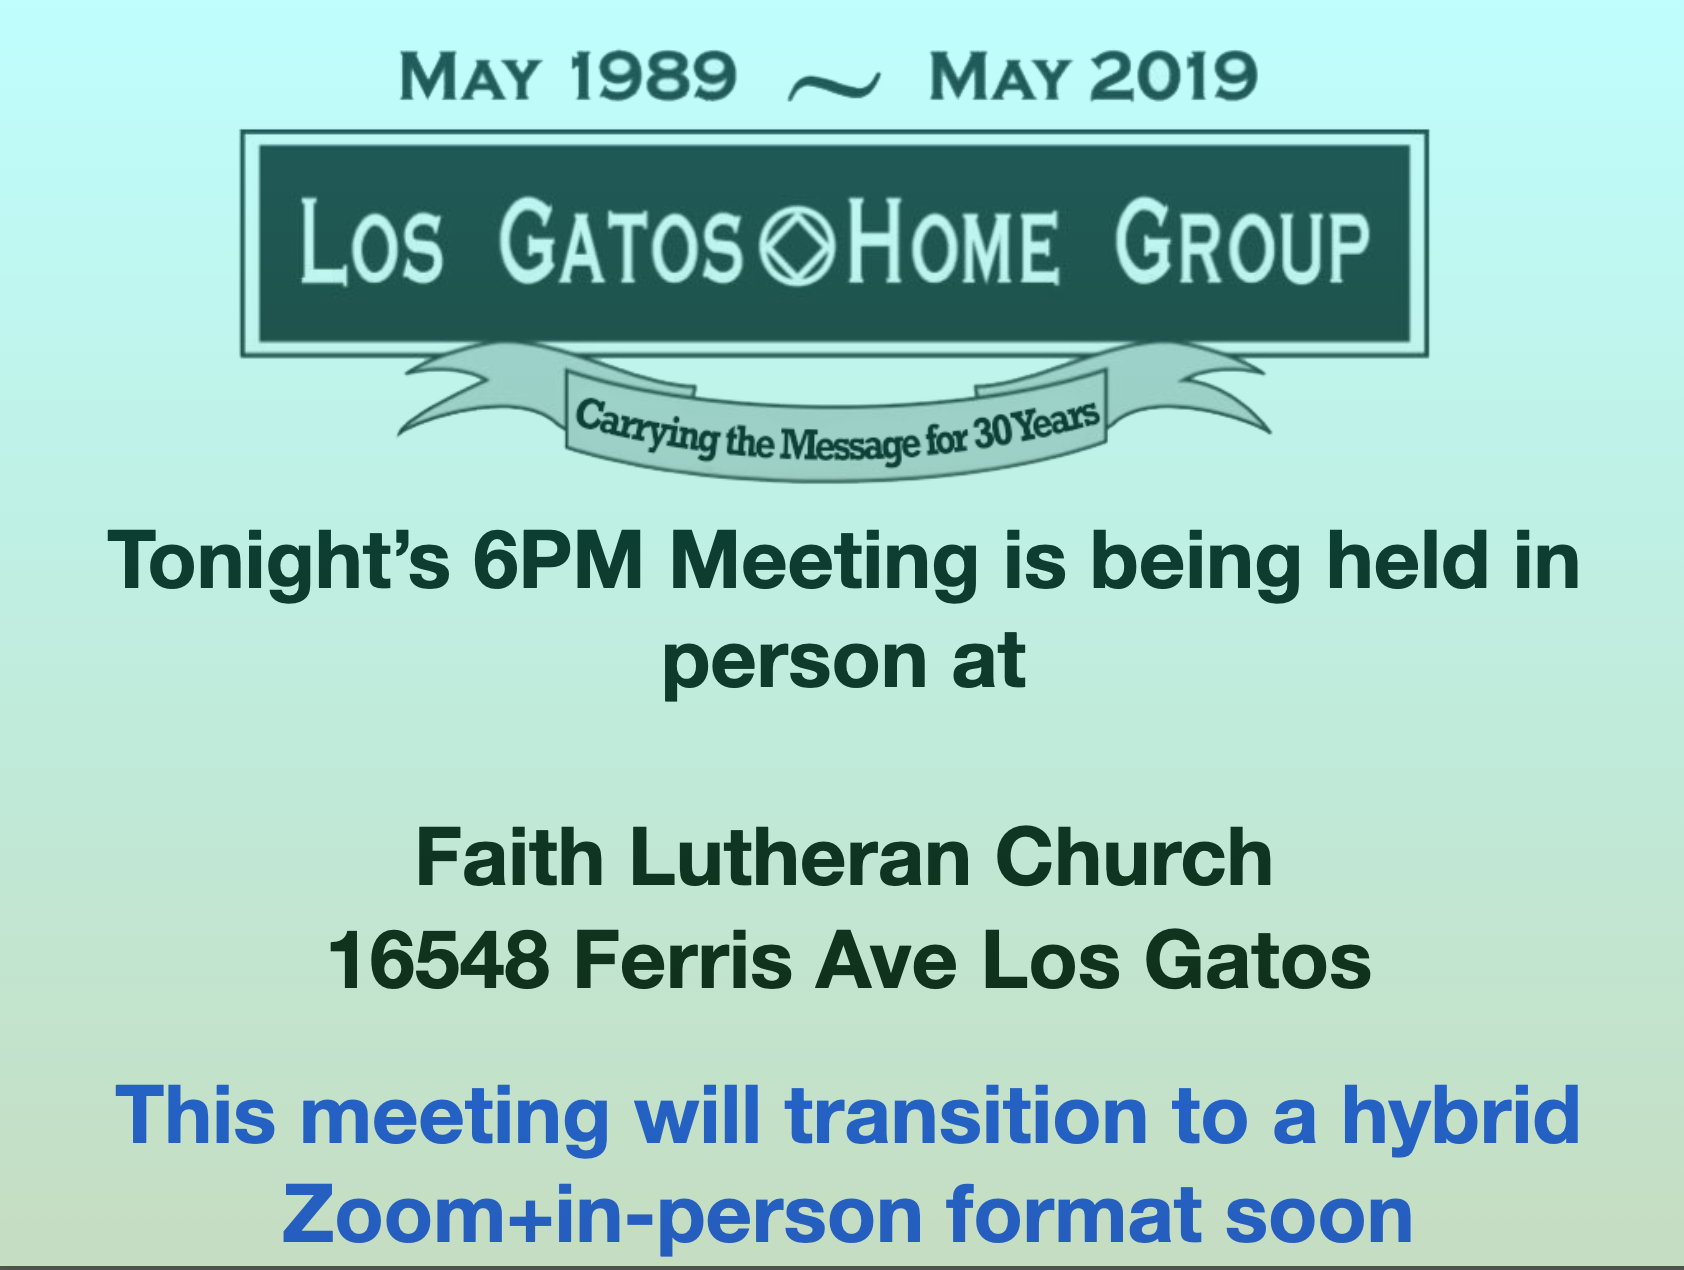
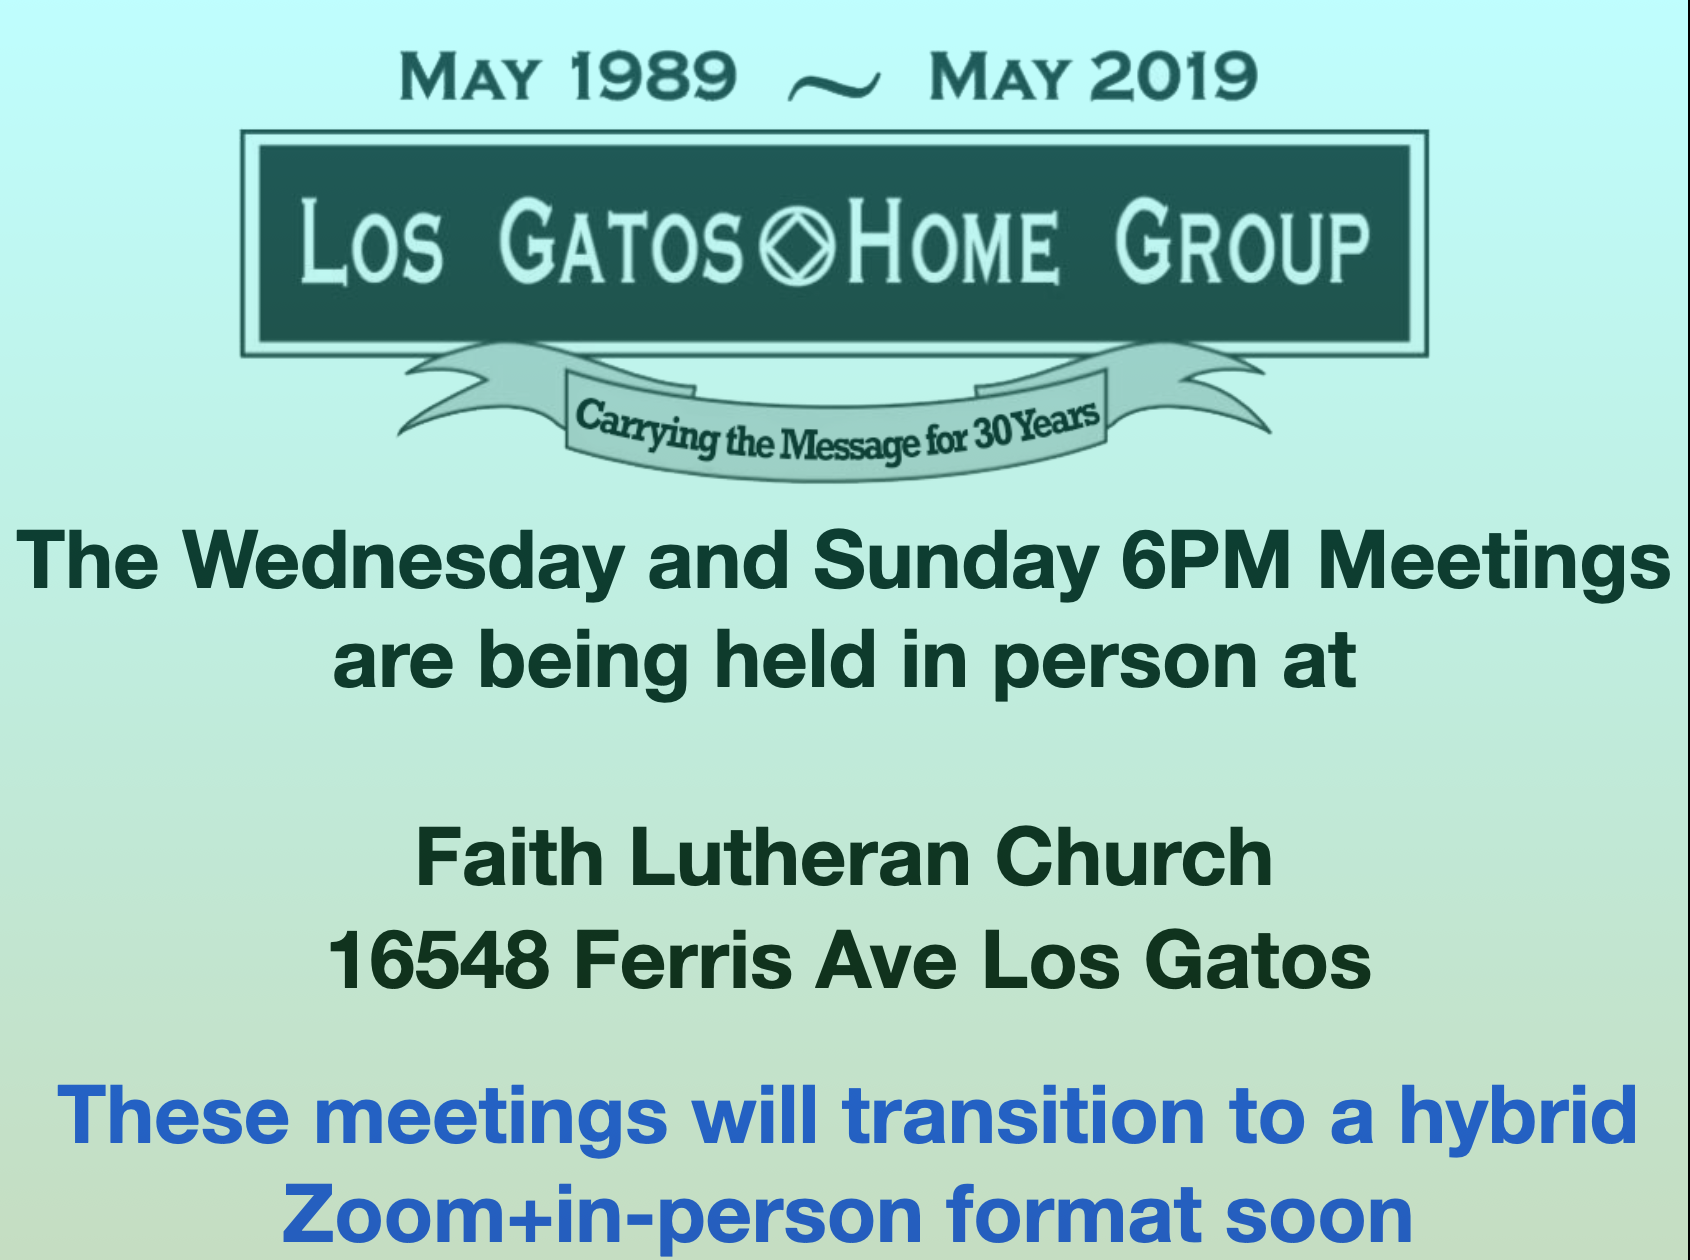
announce in-person meetings

Changed region(s): [[0.0, 0.031, 0.9881, 0.5571], [0.0, 0.8357, 1.0, 1.0], [0.1853, 0.65, 0.8337, 0.8048]]

diff --git a/index.html b/index.html
@@ -37,6 +37,11 @@
           font-weight:bold;
           background:#CCE5FF;
 }
+      #banner-image {
+          width:450px;
+          text-align:left;
+          font-weight:bold;
+}
     </style>
     <!-- Custom styles for this template -->
     <link href="jumbotron.css" rel="stylesheet">
@@ -124,11 +129,9 @@
 
       <br />
       <br />
-<!--
-<div id="announce">
-      <p><b>All secretary positions are up for election in August. Please sign up at <a href="https://lghg.org/service/">lghg.org/service</a></b></p>
+<div id="banner-image">
+<img width="450" src="events/in-person.png">
 </div>
--->
       <br />
       <br />
       <p>Welcome to Los Gatos Home Group</p>
